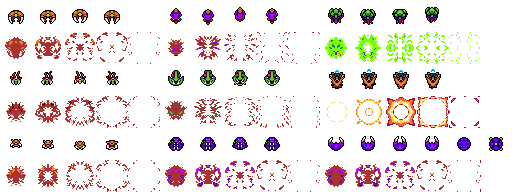
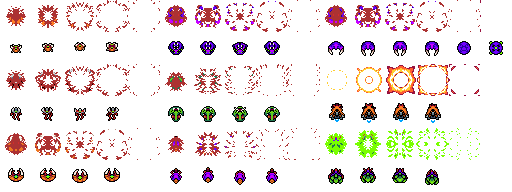
feat: update assets

diff --git a/src/assets-loader/explosions.js b/src/assets-loader/explosions.js
@@ -58,4 +58,19 @@ export default () => {
         .destroyOnEnd()
     }
   })
+
+  Crafty.c('Sprite_ExplosionEnemyHost', {
+    init: function () {
+      this.requires('Canvas, SpriteAnimationExt, ExplosionEnemyPowerHostSprite')
+        .reel('default', 250, [
+          [10, 2, 1, 1],
+          [11, 2, 1, 1],
+          [12, 2, 1, 1],
+          [13, 2, 1, 1],
+          [14, 2, 1, 1]
+        ])
+        .animate('default')
+        .destroyOnEnd()
+    }
+  })
 }

diff --git a/src/assets-loader/enemy-ships.js b/src/assets-loader/enemy-ships.js
@@ -31,4 +31,17 @@ export default () => {
         .animate('default', -1)
     }
   })
+
+  Crafty.c('Sprite_EnemyPowerHost', {
+    init: function () {
+      this.requires('Canvas, SpriteAnimationExt, EnemyPowerHostSprite')
+        .reel('default', 250, [
+          [10, 3, 1, 1],
+          [11, 3, 1, 1],
+          [12, 3, 1, 1],
+          [13, 3, 1, 1]
+        ])
+        .animate('default', -1)
+    }
+  })
 }

diff --git a/src/assets-loader/index.js b/src/assets-loader/index.js
@@ -34,6 +34,14 @@ const assets = {
         ExplosionBossBlueSucklingSprite: [5, 1, 1, 1]
       }
     },
+    'Enemies_Unit_Regular.png': {
+      tile: 32,
+      tileh: 32,
+      map: {
+        EnemyPowerHostSprite: [10, 3, 1, 1],
+        ExplosionEnemyPowerHostSprite: [10, 2, 1, 1]
+      }
+    },
 
     // Scene
     'Parallax_Space_Sheet.png': {
